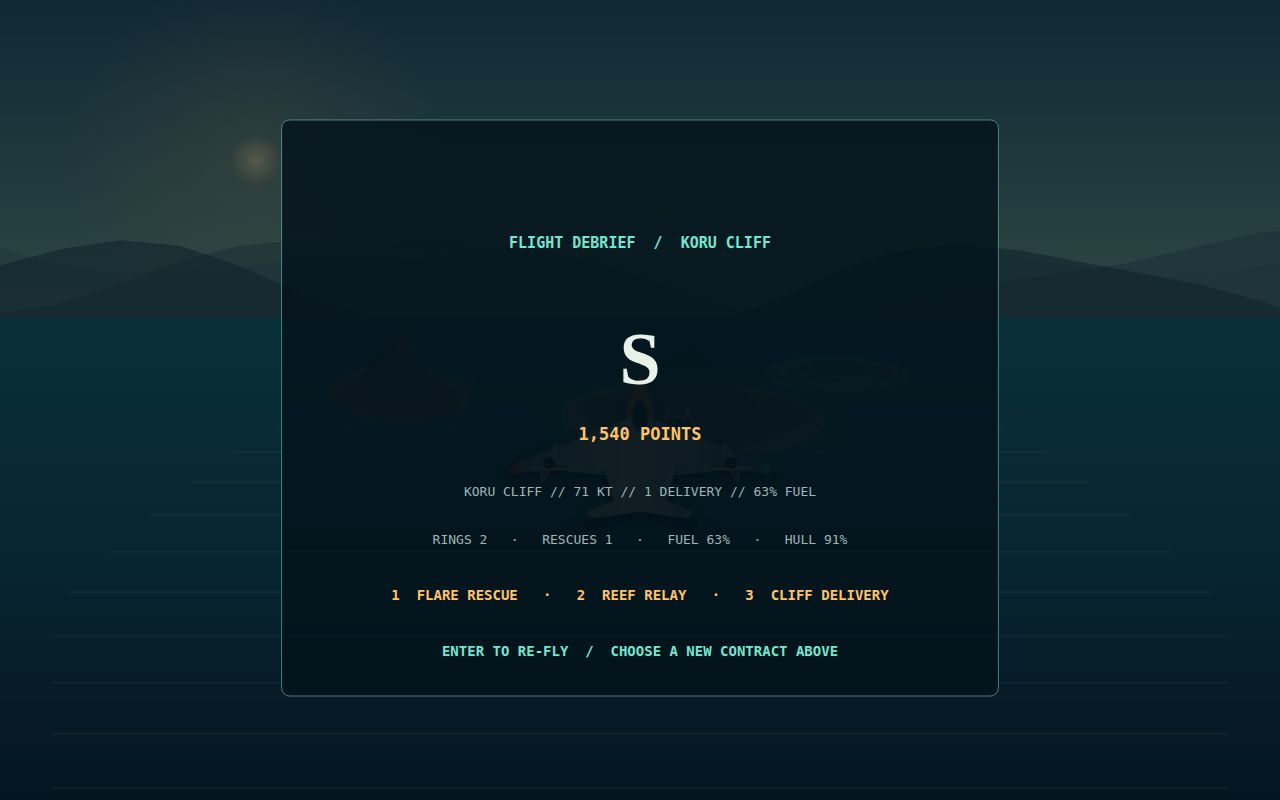
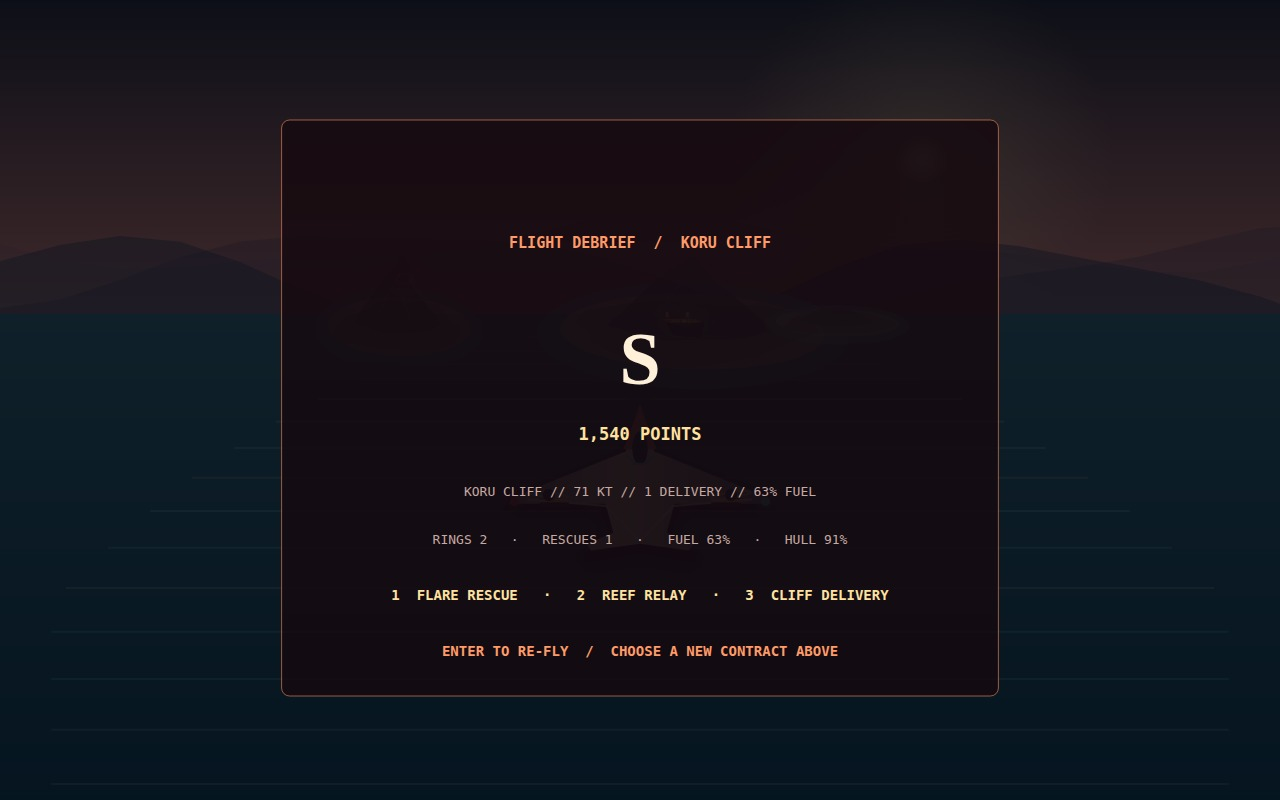
Polish Ember checkpoints and authentic Chrome captures

diff --git a/game/src/renderer.js b/game/src/renderer.js
@@ -16,7 +16,7 @@ function project(game, worldX, worldZ, elevation = 0) {
   const depth = worldZ - game.plane.forward;
   const perspective = 800 / Math.max(260, depth + 370);
   const x = game.width * 0.5 + (worldX - game.plane.crossTrack) * perspective * 0.43;
-  const y = game.horizon + perspective * (230 + elevation * 0.31) + perspective * perspective * 48;
+  const y = game.horizon + perspective * (game.plane.altitude - elevation) * .12 + perspective * perspective * 30;
   return { x, y, scale: perspective, depth };
 }
 
@@ -47,7 +47,7 @@ function drawSky(ctx, game) {
   }
   if (weather.severity > 0.14) {
     const cloud = ctx.createRadialGradient(w * .53, horizon - 68, 20, w * .53, horizon - 68, w * .52);
-    cloud.addColorStop(0, `rgba(30,38,55,${weather.severity * .62})`); cloud.addColorStop(1, 'rgba(30,38,55,0)');
+    cloud.addColorStop(0, `rgba(12,20,39,${Math.min(.95, weather.severity * 1.3)})`); cloud.addColorStop(.65, `rgba(20,26,43,${weather.severity * .8})`); cloud.addColorStop(1, 'rgba(30,38,55,0)');
     ctx.fillStyle = cloud; ctx.fillRect(0, 0, w, horizon + 20);
     for (let i = 0; i < 5; i++) {
       const cx = w * .32 + i * 103 + Math.sin(time * .15 + i) * 14;
@@ -125,6 +125,10 @@ function drawRunway(ctx, game, runway) {
   const far = project(game, runway.x, runway.z - runway.length / 2, runway.elevation);
   if (near.depth < -500 || far.depth < -500 || near.depth > 8000) return;
   const halfNear = runway.width * near.scale * .48; const halfFar = runway.width * far.scale * .48;
+  // Exposed basalt shelf beneath the elevated strip; lights remain on top.
+  const cliff = Math.min(62, runway.elevation * far.scale * .22);
+  polygon(ctx, [[far.x - halfFar * 1.3, far.y], [far.x + halfFar * 1.3, far.y], [far.x + halfFar * 1.05, far.y + cliff], [far.x - halfFar * .85, far.y + cliff * .82]], '#26363c', '#746154', 1);
+  polygon(ctx, [[near.x - halfNear * 1.3, near.y], [near.x + halfNear * 1.3, near.y], [far.x + halfFar * 1.3, far.y], [far.x - halfFar * 1.3, far.y]], '#4d4b48');
   polygon(ctx, [[near.x - halfNear, near.y], [near.x + halfNear, near.y], [far.x + halfFar, far.y], [far.x - halfFar, far.y]], '#28383c', 'rgba(250,223,161,.82)', 1.2);
   ctx.strokeStyle = '#e9d5a1'; ctx.lineWidth = 2;
   for (let i = 1; i <= 5; i++) {
@@ -150,10 +154,11 @@ function drawRunway(ctx, game, runway) {
 }
 
 function drawBeacon(ctx, game, target, color, label) {
-  const p = project(game, target.x, target.z, 0);
+  const p = project(game, target.x, target.z, label === 'ROUTE RING' ? 200 : 0);
   if (p.depth < 70 || p.depth > 6300) return;
   const radius = clamp(54 * p.scale, 8, 72);
-  ctx.save(); ctx.translate(p.x, p.y - radius * .35);
+  const centerY = Math.min(p.y - radius * .35, game.height - 130 - radius * 2.4);
+  ctx.save(); ctx.translate(p.x, centerY);
   ctx.strokeStyle = color; ctx.lineWidth = Math.max(2, p.scale * 4); ctx.shadowColor = color; ctx.shadowBlur = 20;
   ctx.beginPath(); ctx.ellipse(0, 0, radius, radius * 1.14, 0, 0, TAU); ctx.stroke();
   ctx.beginPath(); ctx.moveTo(0, radius * 1.14); ctx.lineTo(0, radius * 2.4); ctx.stroke();
@@ -167,7 +172,7 @@ function drawParachute(ctx, game) {
   if (!crate || crate.scored) return;
   const p = project(game, game.mission.beacon.x, game.mission.beacon.z, 70);
   const drop = clamp((1.55 - crate.timer) / 1.55, 0, 1);
-  const y = p.y - 70 * p.scale + drop * 105 * p.scale;
+  const y = Math.min(p.y - 70 * p.scale + drop * 105 * p.scale, game.height - 145);
   const x = p.x + Math.sin(game.time * 1.4) * 12 * p.scale;
   const s = clamp(p.scale, .25, 1.2);
   ctx.save(); ctx.strokeStyle = '#fff0c5'; ctx.lineWidth = 2 * s;
@@ -180,7 +185,7 @@ function drawParachute(ctx, game) {
 function drawRain(ctx, game) {
   const density = Math.round(game.weather.severity * 90);
   if (density < 1) return;
-  ctx.strokeStyle = `rgba(200,232,239,${.12 + game.weather.severity * .16})`; ctx.lineWidth = 1;
+  ctx.strokeStyle = `rgba(213,239,255,${.18 + game.weather.severity * .4})`; ctx.lineWidth = 1.3;
   for (let i = 0; i < density; i++) {
     const x = (i * 137 + Math.sin(game.time * 7 + i) * 70 + game.time * 115) % game.width;
     const y = (i * 83 + game.time * 280) % game.height;
@@ -203,7 +208,7 @@ function drawScene(ctx, game) {
   drawRain(ctx, game);
   if (game.weather.lightning > 0) { ctx.fillStyle = `rgba(226,239,255,${game.weather.lightning * .22})`; ctx.fillRect(0, 0, game.width, game.height); }
   drawParachute(ctx, game);
-  drawRescueAircraft(ctx, game.width * .5, game.height * .58, game.height / 720, game.plane.roll, game.time, game.plane.flaps, game.plane.hull);
+  drawRescueAircraft(ctx, game.width * .5, game.height * .62, game.height / 720, game.plane.roll, game.time, game.plane.flaps, game.plane.hull);
 }
 
 export function createRenderer(canvas) {

diff --git a/game/src/sortieReplay.js b/game/src/sortieReplay.js
@@ -1,0 +1,42 @@
+import { createFlightModel, stepFlight, clamp } from './flightPhysics.js';
+import { createWeather, sampleWeather } from './weather.js';
+
+// Reproducible flight checkpoints, not painted telemetry. Every fuel and hull
+// value starts at 100 and is advanced by the same physics used during play.
+// The replay flies the approach leg from an offshore departure, with an
+// altitude/heading hold pilot. Checkpoints remain fully playable afterwards.
+export function replaySortie(terrain, checkpoint = 'cover') {
+  const plane = createFlightModel({ forward: -6000, crossTrack: -420, heading: 0, airspeed: 105, pitch: .025, throttle: .223 });
+  const weather = createWeather(73);
+  const stop = { cover: 0, storm: 1580, runway: 3750, debrief: 4250 }[checkpoint] ?? 0;
+  let seconds = 0;
+  let steps = 0;
+  let holdStarted = false;
+  let holdDegrees = 0;
+  let holding = false;
+  while ((plane.forward < stop || holding) && !plane.crashed && !plane.touchdown && steps < 20000) {
+    const dt = .04;
+    sampleWeather(weather, plane, dt);
+    if (!holdStarted && stop > 1400 && plane.forward >= 1400) { holding = true; holdStarted = true; }
+    const targetCross = plane.forward > 2100 && !holding ? 0 : -420;
+    const targetHeading = clamp((targetCross - plane.crossTrack) * .07 - weather.crosswind * 1.1, -24, 24);
+    const headingError = ((targetHeading - plane.heading + 540) % 360) - 180;
+    if (!holding && holdStarted && plane.forward > 2200) { plane.flaps = .78; plane.gearDown = true; }
+    const targetAltitude = holding || plane.forward < 1800 ? 1120 : Math.max(270, 1120 - (plane.forward - 1800) * .5);
+    const sink = clamp((targetAltitude - plane.altitude) * .2, -18, 5);
+    const desiredPitch = clamp((sink - plane.verticalSpeed) * .035 + .025, -.35, .35);
+    const previousHeading = plane.heading;
+    stepFlight(plane, {
+      roll: holding ? 1 : clamp(headingError * .11, -1, 1),
+      pitch: clamp((desiredPitch - plane.pitch) * 5, -1, 1),
+      throttle: clamp(((plane.gearDown ? 80 : 105) - plane.airspeed) * .05, -1, 1),
+    }, { ...weather, routeEfficiency: .88, severity: weather.severity * 1.12 }, terrain, dt);
+    if (holding) {
+      holdDegrees += ((plane.heading - previousHeading + 540) % 360) - 180;
+      if (holdDegrees >= 720) holding = false;
+    }
+    seconds += dt;
+    steps++;
+  }
+  return { plane, weather, seconds, steps };
+}

diff --git a/game/src/main.js b/game/src/main.js
@@ -5,11 +5,12 @@ import { attemptDrop, chooseRoute, CONTRACTS, createMissionDirector, startMissio
 import { createRenderer } from './renderer.js';
 import { createSoundEngine } from './audio.js';
 import { createWeather, sampleWeather } from './weather.js';
+import { replaySortie } from './sortieReplay.js';
 
 const canvas = document.getElementById('flight-view');
 const status = document.getElementById('flight-status');
 const query = new URLSearchParams(location.search);
-const variant = query.get('variant') === 'ember' ? 'ember' : 'teal';
+const variant = query.get('variant') === 'teal' ? 'teal' : 'ember';
 const terrain = createArchipelago();
 const weather = createWeather(73);
 const camera = createCameraRig();
@@ -56,6 +57,13 @@ function stageScene(name, launch = true) {
   };
   if (!scenarios[name]) return false;
   Object.assign(plane, scenarios[name]);
+  if (['cover', 'storm', 'runway'].includes(name)) {
+    const replay = replaySortie(terrain, name);
+    plane = replay.plane;
+    Object.assign(weather, replay.weather);
+    elapsed = replay.seconds;
+    if (name === 'runway') { plane.gearDown = true; plane.flaps = .78; }
+  }
   if (name === 'storm') {
     mission = createMissionDirector('rescue');
     mission.phase = 'outbound';
@@ -202,7 +210,8 @@ function stateSnapshot() {
     throttle: Number(plane.throttle.toFixed(2)), flaps: Number(plane.flaps.toFixed(2)),
     fuel: Math.round(plane.fuel), hull: Math.round(plane.hull), roll: Number(plane.roll.toFixed(3)),
     forward: Math.round(plane.forward), crossTrack: Math.round(plane.crossTrack),
-    event: mission.event, grade: mission.grade, route: mission.routeChoice,
+    event: mission.event, grade: mission.grade, route: mission.routeChoice, variant,
+    flightSeconds: Number(elapsed.toFixed(2)),
   };
 }
 

diff --git a/README.md b/README.md
@@ -1,0 +1,31 @@
+# STORMPOST — Islewatch Flight
+
+[![make.fun · best-flight-game-20261126-0057](https://make.fun/badge/best-flight-game-20261126-0057.svg)](https://make.fun/bounty/best-flight-game-20261126-0057)
+[![rank](https://make.fun/badge/best-flight-game-20261126-0057/acfauji/stormpost-flight-ember/rank.svg)](https://make.fun/bounty/best-flight-game-20261126-0057/leaderboard)
+[![reward](https://make.fun/badge/best-flight-game-20261126-0057/acfauji/stormpost-flight-ember/reward.svg)](https://make.fun/bounty/best-flight-game-20261126-0057)
+
+An original, offline Canvas flight game over a volcanic archipelago. Ember is the default palette; `?variant=teal` selects the alternate. Three contracts combine flight controls, storm/safe-route decisions, supply drops, fuel consumption, airframe wear, and runway landing checks.
+
+## Run it
+
+Node.js 22.18 or newer; no installation or build step:
+
+```sh
+node serve.ts --port 8091
+```
+
+Open `http://127.0.0.1:8091/` in desktop Chrome. Enter launches; W/S pitch, A/D bank, Q/E yaw, Shift/Ctrl throttle, F flaps, G gear, Space supply drop, V route, P pause. Hold and drag the mouse to fly.
+
+## Screenshots and reproducible checkpoints
+
+The four JPEGs are unedited 1280×800 Chrome captures. The cover, storm, and approach use playable `?scene=cover`, `?scene=storm`, and `?scene=runway` checkpoints. `sortieReplay.js` advances the actual flight physics from a full-fuel offshore departure, including two storm holding circuits. Fuel and hull are integrated, not assigned screenshot values. Real keyboard bank/drop inputs are then applied for the captures. These are reproducible scenario checkpoints, not a claim of continuous human piloting. `?scene=debrief` is the separately staged end-screen demonstration.
+
+## Deterministic hand-in
+
+```sh
+MAKEFUN_OUTPUT_DIR=out node main.ts
+```
+
+Copies the static game and original captures and writes the dossier using the unchanged official `vendor/makefun-game.ts`. No network access or external assets are required by the game. The badge links in this README are repository metadata only.
+
+MIT licensed. Entered on [make.fun](https://make.fun/bounty/best-flight-game-20261126-0057).
